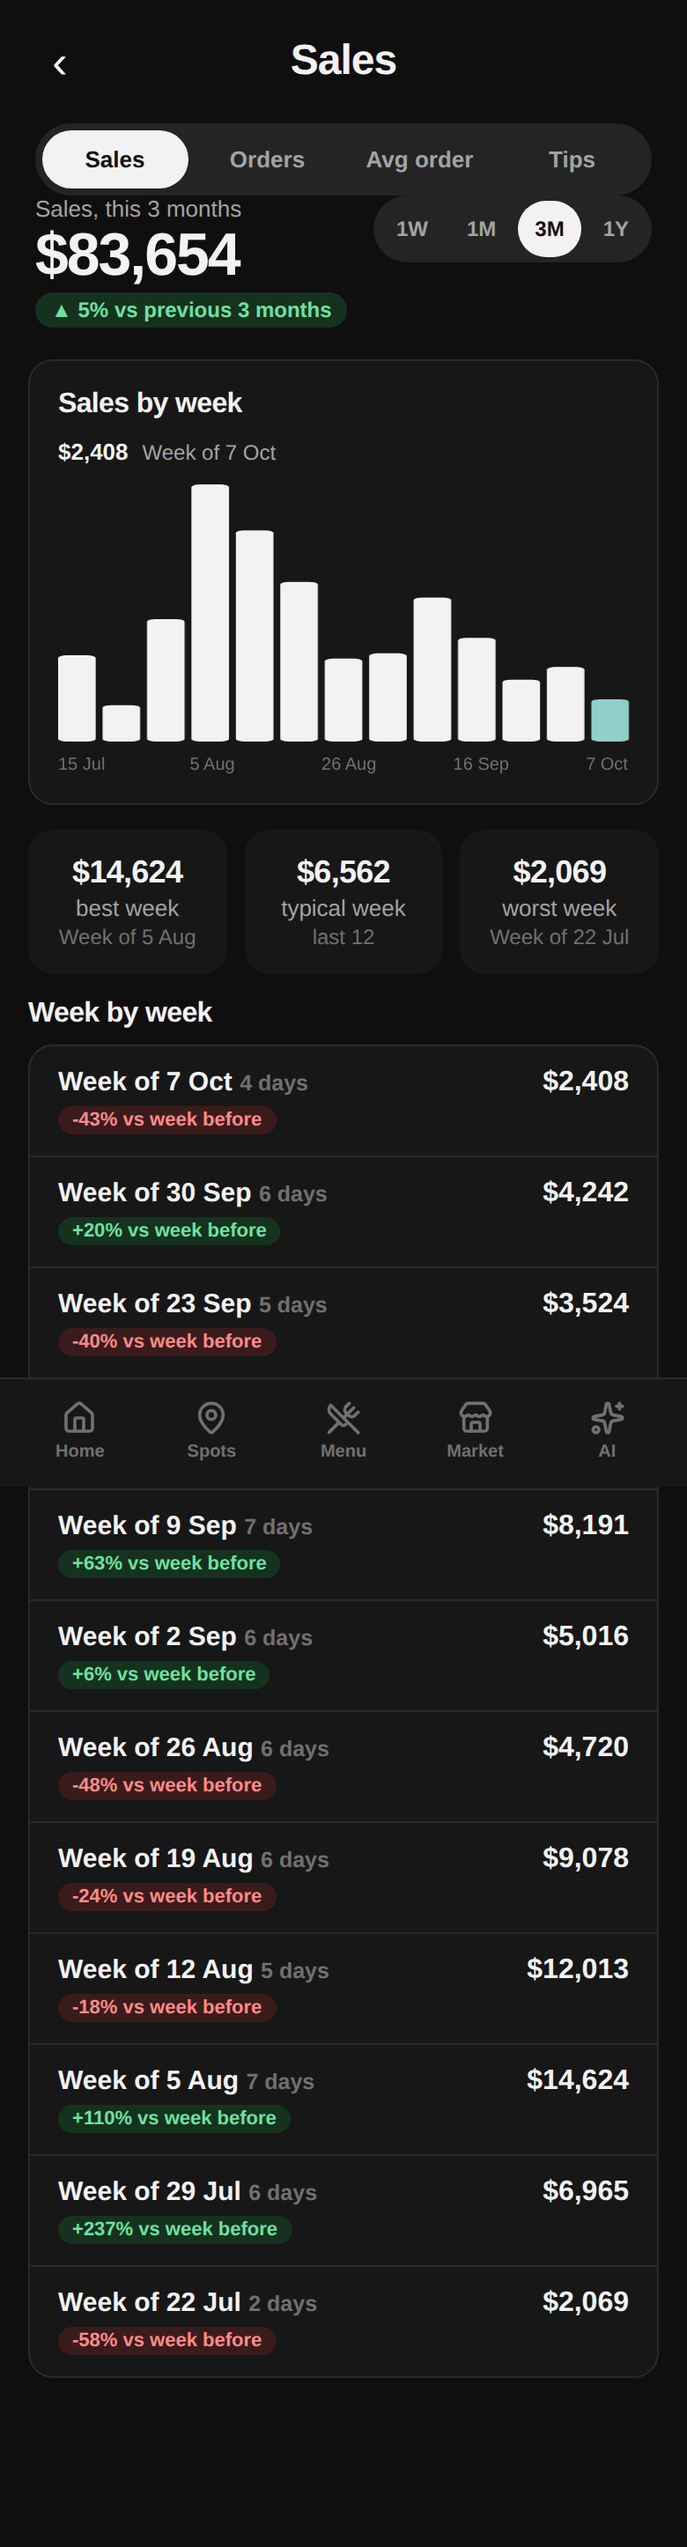
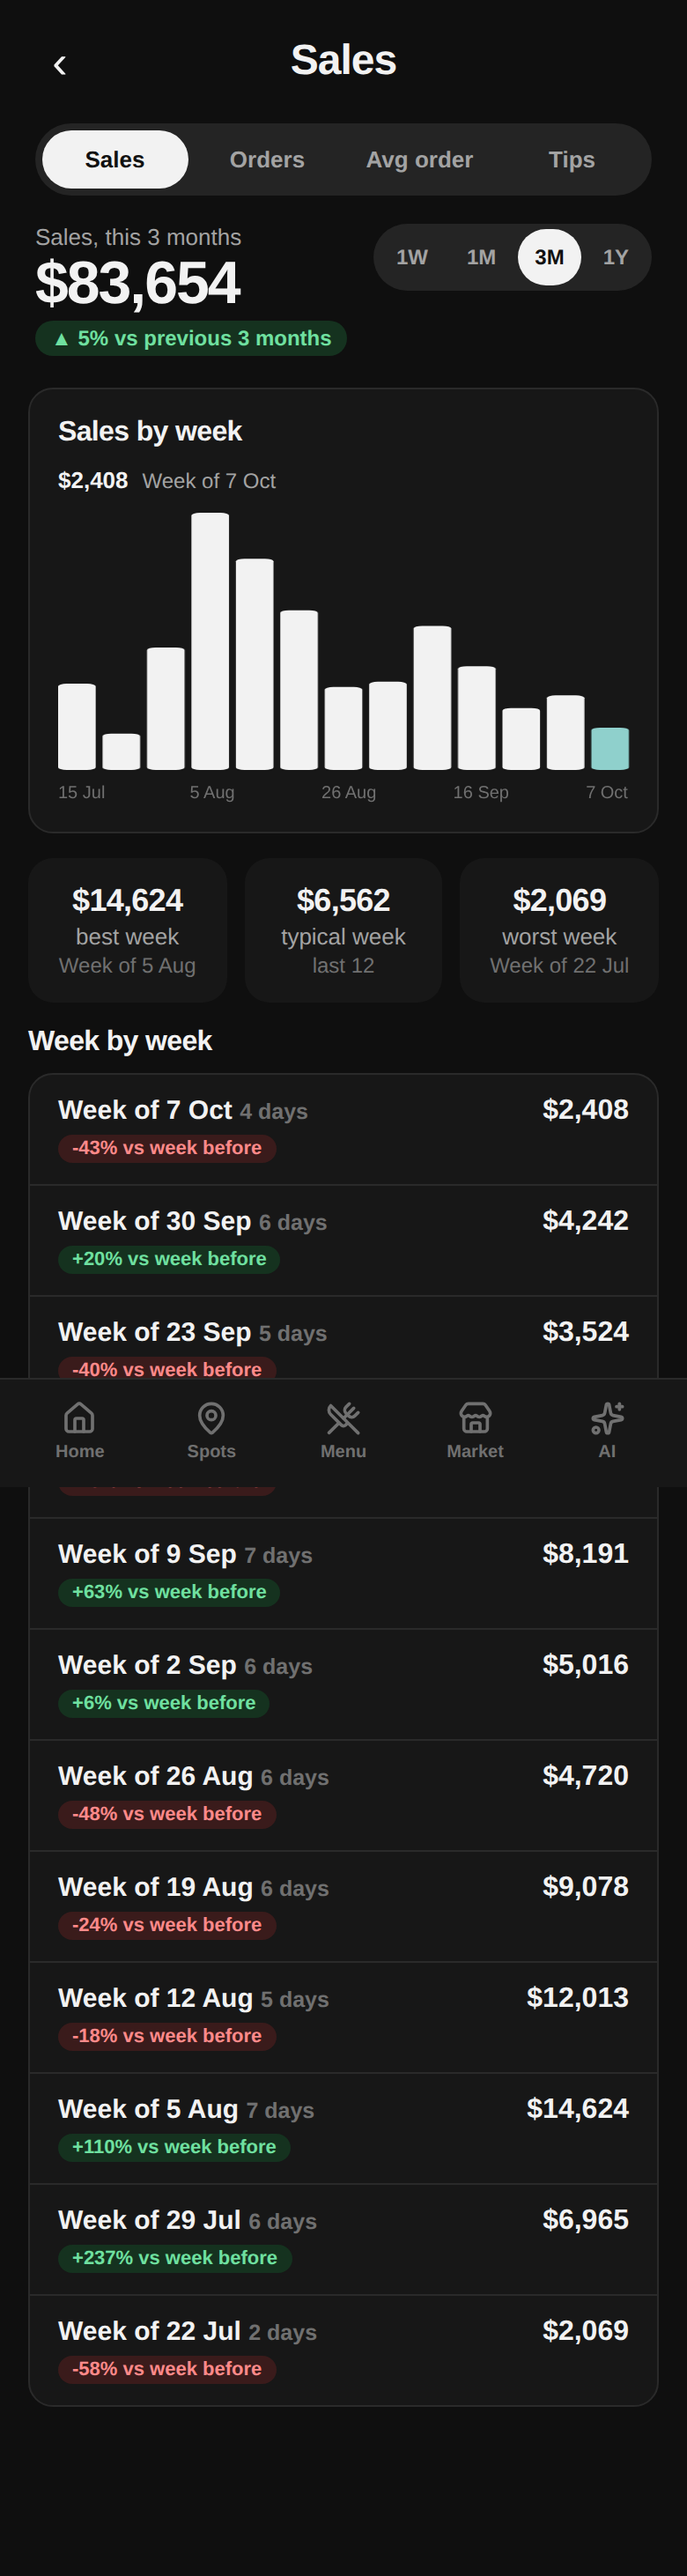
Home: week cards and set-aside pots as three-across grids; space under History switcher
Claude-Session: https://claude.ai/code/session_011kULvXi1EhLGoQfkcWDNEp

diff --git a/food-truck-app/src/app.css b/food-truck-app/src/app.css
@@ -47,15 +47,6 @@ h2 { font-size: 16px; font-weight: 700; }
 .block { display: flex; flex-direction: column; gap: 8px; }
 .block > .row { padding: 0 2px; }
 
-/* ===== Swipe cards ===== */
-.swipe { display: flex; gap: 10px; overflow-x: auto; scroll-snap-type: x mandatory; margin: 0 -16px; padding: 2px 16px 6px; scrollbar-width: none; }
-.swipe::-webkit-scrollbar { display: none; }
-.swipe-card {
-  flex: 0 0 62%; scroll-snap-align: start; display: flex; flex-direction: column; align-items: flex-start; gap: 4px; text-align: left;
-  background: var(--card); border: 1px solid var(--line); border-radius: var(--radius); padding: 16px; font: inherit; color: var(--ink); cursor: pointer; min-height: 112px;
-}
-.card-num { font-size: 26px; font-weight: 800; letter-spacing: -0.03em; line-height: 1.05; margin-top: 2px; }
-.card-sub { font-size: 12px; color: var(--ink-2); line-height: 1.35; }
 /* ===== Business status: first thing on Home. Green = good, red = needs attention, plain = steady ===== */
 .status { display: flex; flex-direction: column; gap: 2px; padding: 20px 18px; border-radius: var(--radius); background: var(--ink); color: var(--on-ink); cursor: pointer; }
 .status .label, .status-sub { color: inherit; opacity: 0.78; }
@@ -63,18 +54,28 @@ h2 { font-size: 16px; font-weight: 700; }
 .status-sub { font-size: 14px; line-height: 1.4; }
 .status.good { background: var(--good-fill); color: #fff; }
 .status.warn { background: var(--bad-fill); color: #fff; }
-.chg { font-size: 12px; font-weight: 700; padding: 3px 8px; border-radius: 999px; margin-top: 4px; }
+
+/* ===== Week cards: three across, nothing hidden off screen ===== */
+.swipe { display: grid; grid-template-columns: repeat(3, 1fr); gap: 8px; }
+.swipe-card {
+  display: flex; flex-direction: column; align-items: flex-start; gap: 3px; text-align: left; min-width: 0;
+  background: var(--card); border: 1px solid var(--line); border-radius: var(--radius); padding: 14px 12px; font: inherit; color: var(--ink); cursor: pointer;
+}
+.swipe-card .label { font-size: 12px; line-height: 1.25; }
+.card-num { font-size: 22px; font-weight: 800; letter-spacing: -0.03em; line-height: 1.05; margin-top: 2px; }
+.card-sub { font-size: 12px; color: var(--ink-2); line-height: 1.35; }
+.chg-vs { font-size: 11px; color: var(--ink-3); }
+.chg { font-size: 12px; font-weight: 700; padding: 3px 8px; border-radius: 999px; margin-top: 4px; white-space: nowrap; }
 .chg.up { background: var(--good-soft); color: var(--good-ink); }
 .chg.down { background: var(--bad-soft); color: var(--bad-ink); }
 .chg.flat { color: var(--ink-3); font-weight: 500; padding-left: 0; }
 
-/* ===== Pots ===== */
-.pots { display: flex; gap: 10px; overflow-x: auto; margin: 0 -16px; padding: 0 16px 4px; scrollbar-width: none; }
-.pots::-webkit-scrollbar { display: none; }
-.pot { flex: 0 0 150px; background: var(--card); border: 1px solid var(--line); border-radius: var(--radius); padding: 14px; display: flex; flex-direction: column; gap: 2px; }
-.pot-ico { width: 34px; height: 34px; border-radius: 50%; background: var(--panel); display: grid; place-items: center; margin-bottom: 8px; }
+/* ===== Pots: three across ===== */
+.pots { display: grid; grid-template-columns: repeat(3, 1fr); gap: 8px; }
+.pot { min-width: 0; background: var(--card); border: 1px solid var(--line); border-radius: var(--radius); padding: 12px 10px; display: flex; flex-direction: column; gap: 2px; }
+.pot-ico { width: 30px; height: 30px; border-radius: 50%; background: var(--panel); display: grid; place-items: center; margin-bottom: 6px; }
 .pot-name { font-size: 12px; color: var(--ink-2); }
-.pot-amt { font-size: 18px; font-weight: 800; letter-spacing: -0.02em; }
+.pot-amt { font-size: 17px; font-weight: 800; letter-spacing: -0.02em; }
 .pot-sub { font-size: 11px; color: var(--ink-3); }
 
 /* ===== Feed (one list style everywhere) ===== */
@@ -108,7 +109,7 @@ h2 { font-size: 16px; font-weight: 700; }
 .pills { display: inline-flex; gap: 2px; padding: 3px; background: var(--panel); border-radius: 999px; }
 .pills button { border: 0; background: transparent; font: inherit; font-size: 12px; font-weight: 700; color: var(--ink-2); padding: 7px 10px; border-radius: 999px; cursor: pointer; min-height: 32px; }
 .pills button.on { background: var(--ink); color: var(--on-ink); }
-.seg { display: flex; gap: 4px; padding: 4px; background: var(--panel); border-radius: 999px; }
+.seg { display: flex; gap: 4px; padding: 4px; background: var(--panel); border-radius: 999px; margin-bottom: 16px; }
 .seg a { flex: 1; text-align: center; font-size: 13px; font-weight: 700; color: var(--ink-2); text-decoration: none; padding: 9px 0; border-radius: 999px; }
 .seg a.on { background: var(--ink); color: var(--on-ink); }
 

diff --git a/food-truck-app/src/screens/Home.tsx b/food-truck-app/src/screens/Home.tsx
@@ -51,41 +51,44 @@ export default function Home() {
         </div>
       </section>
 
+      <section className="block">
+      <div className="row"><h2>This week</h2></div>
       <div className="swipe">
         <button className="swipe-card" onClick={() => navigate('/history/sales')}>
-          <span className="label">Sales this week</span>
+          <span className="label">Sales</span>
           <span className="card-num">{money(wk.now.sales)}</span>
           <Chg v={pctChange(wk.now.sales, wk.prev.sales)} />
         </button>
         <button className="swipe-card" onClick={() => navigate('/money')}>
-          <span className="label">Profit this week</span>
+          <span className="label">Profit</span>
           <span className="card-num">{wk.now.profit < 0 ? '-' : ''}{money(Math.abs(wk.now.profit))}</span>
           <Chg v={pctChange(wk.now.profit, wk.prev.profit)} />
         </button>
         <button className="swipe-card" onClick={() => navigate('/history/orders')}>
-          <span className="label">Orders this week</span>
+          <span className="label">Orders</span>
           <span className="card-num">{week.orders.toLocaleString()}</span>
           <Chg v={pctChange(week.orders, prevWeek.orders)} />
         </button>
       </div>
+      </section>
 
       <section className="block">
         <div className="row"><h2>Set aside</h2></div>
         <div className="pots">
           <div className="pot">
-            <span className="pot-ico"><Receipt size={18} /></span>
+            <span className="pot-ico"><Receipt size={16} /></span>
             <span className="pot-name">Sales tax</span>
             <span className="pot-amt">{money(cash.taxOwed)}</span>
             <span className="pot-sub">{cash.nextRemittance ? `due ${shortDate(cash.nextRemittance.date)}` : 'nothing due'}</span>
           </div>
           <div className="pot">
-            <span className="pot-ico"><Landmark size={18} /></span>
+            <span className="pot-ico"><Landmark size={16} /></span>
             <span className="pot-name">Bills this month</span>
             <span className="pot-amt">{money(billsMonth)}</span>
             <span className="pot-sub">loan, insurance, kitchen</span>
           </div>
           <div className="pot">
-            <span className="pot-ico"><HandCoins size={18} /></span>
+            <span className="pot-ico"><HandCoins size={16} /></span>
             <span className="pot-name">Tips to staff</span>
             <span className="pot-amt">{money(wk.now.tips)}</span>
             <span className="pot-sub">this week</span>
@@ -118,6 +121,11 @@ export default function Home() {
 
 function Chg({ v }: { v: number | null }) {
   if (v === null) return <span className="chg flat">no comparison</span>
-  return <span className={`chg ${v >= 0 ? 'up' : 'down'}`}>{v >= 0 ? '▲' : '▼'} {Math.abs(Math.round(v * 100))}% vs last week</span>
+  return (
+    <>
+      <span className={`chg ${v >= 0 ? 'up' : 'down'}`}>{v >= 0 ? '▲' : '▼'} {Math.abs(Math.round(v * 100))}%</span>
+      <span className="chg-vs">vs last week</span>
+    </>
+  )
 }
 
